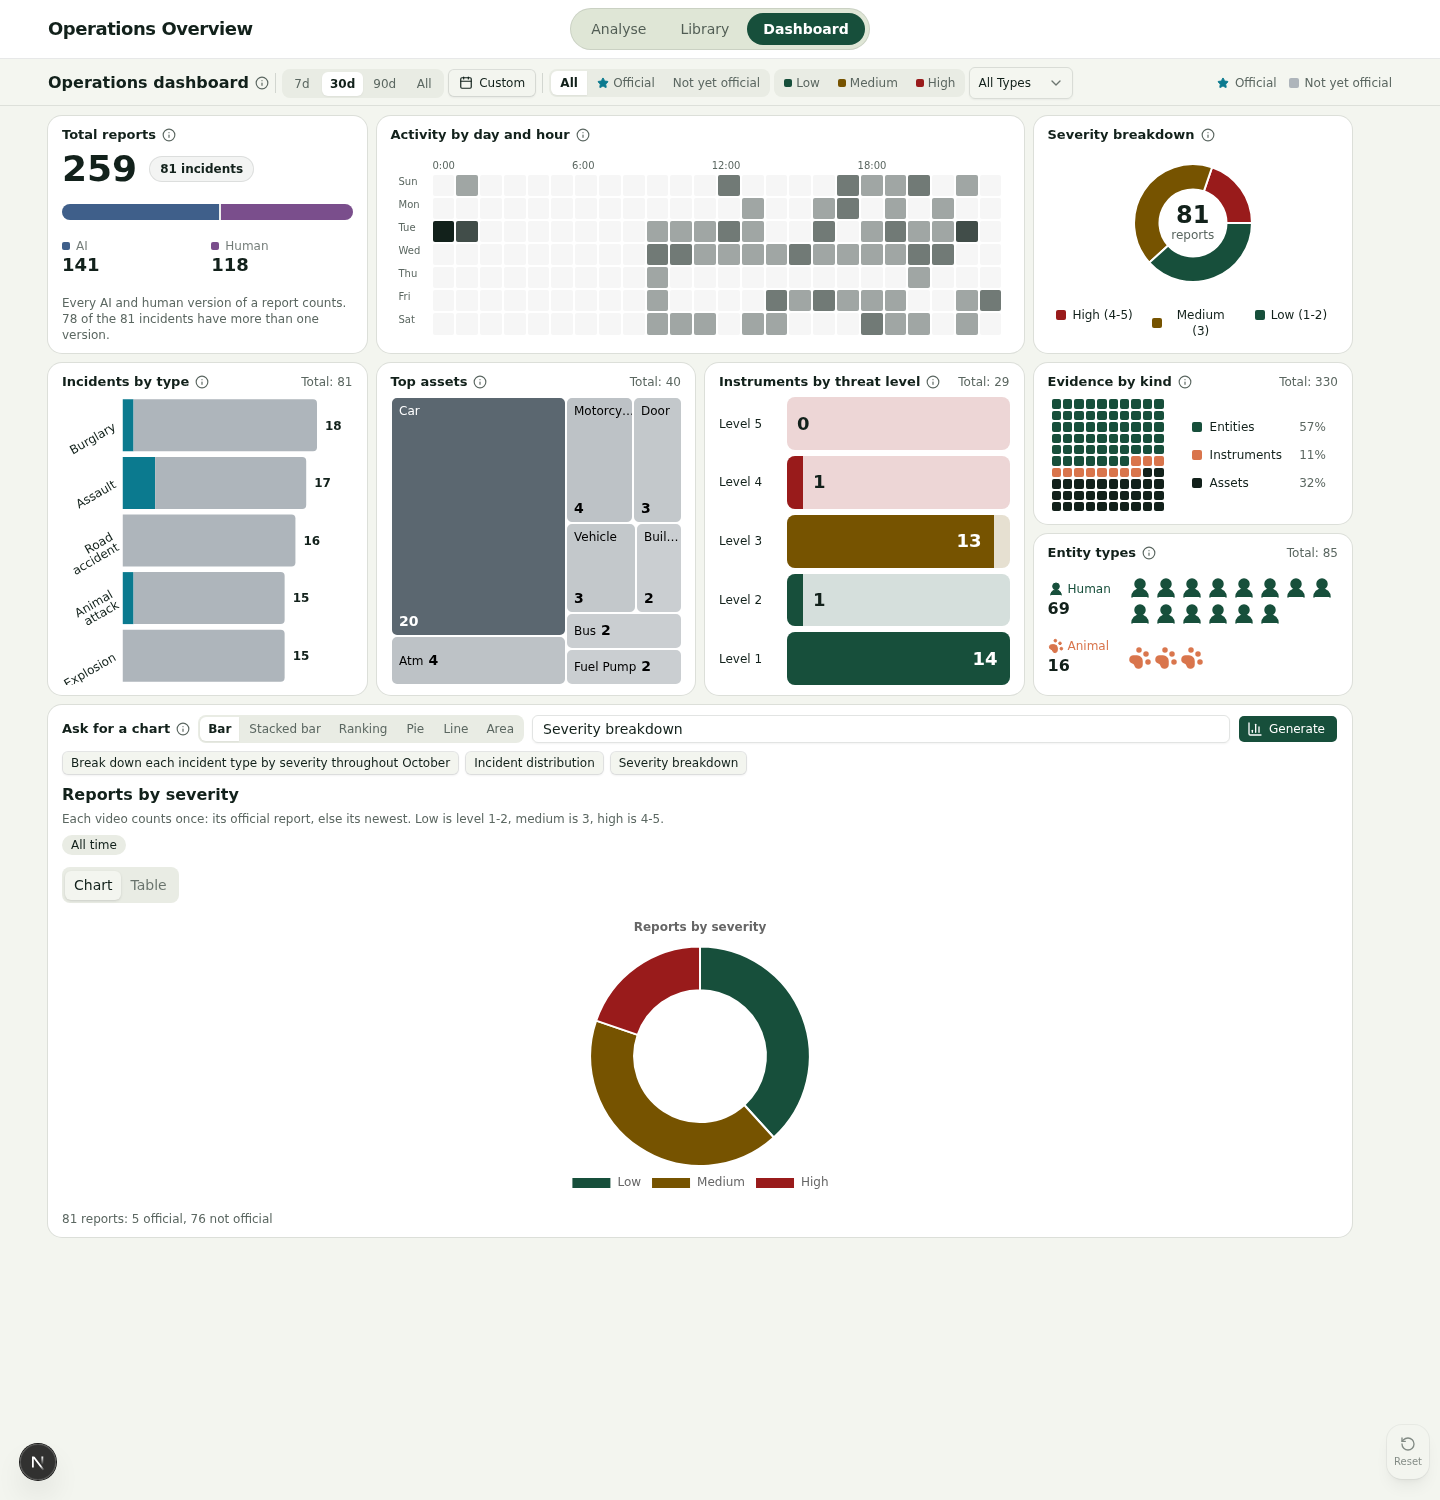
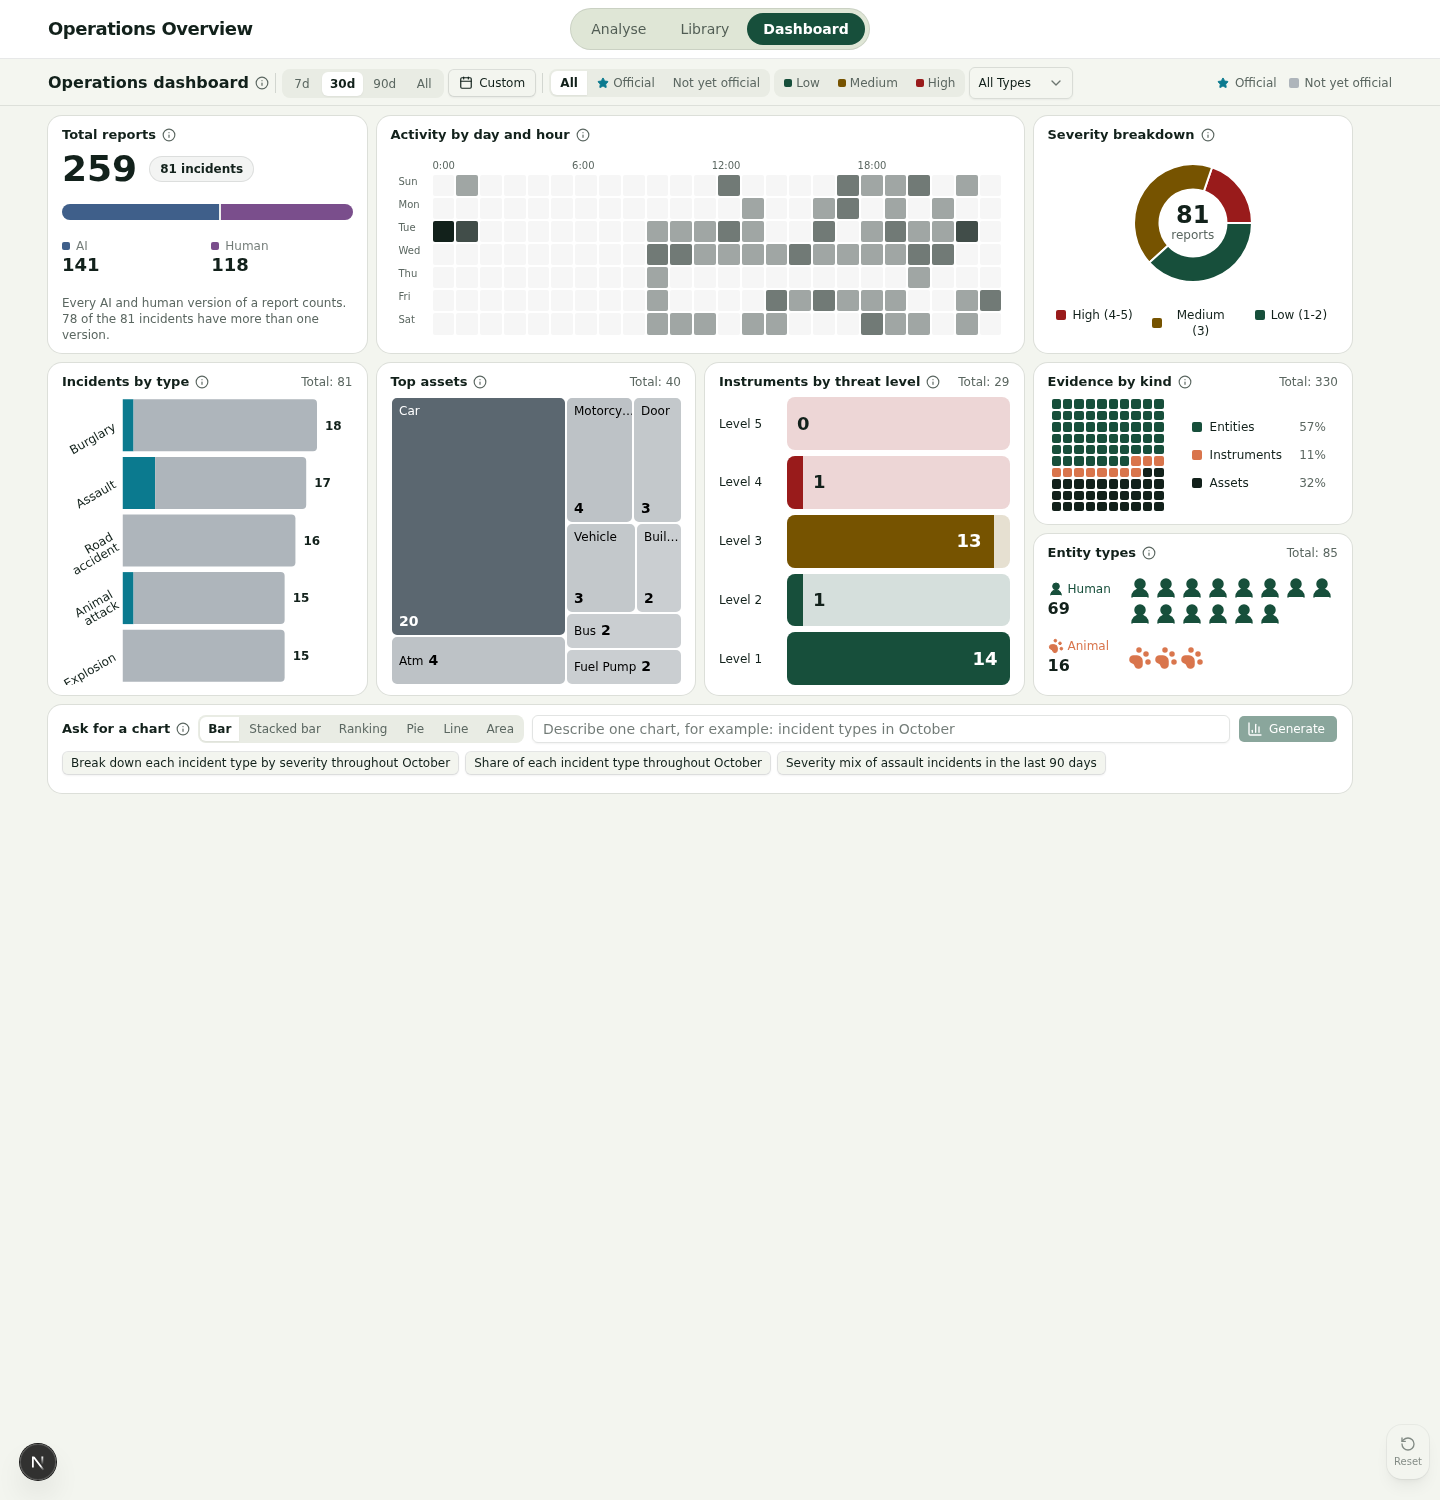
feat(incident): chips 2 and 3 are specific prompts that draw donuts
Chip 2 is 'Share of each incident type throughout October' and chip 3 is 'Severity mix of assault incidents in the last 90 days', both drawn as donuts. Seven candidates were run through the chart route and screenshotted at 1440 px (see the screenshot folder's README). Chip 1 is unchanged and the picker still follows a donut chip.

diff --git a/deploy/docker/developer-profiles/dev-profile-incident/incident-console-v2/src/sections/dashboard/components/ChartRequest/chart-examples.ts b/deploy/docker/developer-profiles/dev-profile-incident/incident-console-v2/src/sections/dashboard/components/ChartRequest/chart-examples.ts
@@ -17,8 +17,8 @@ export interface ChartExample {
 export const CHART_EXAMPLES: readonly ChartExample[] = [
   // A chart view: stacked bars by severity, one per incident type, for October.
   { request: 'Break down each incident type by severity throughout October', kind: 'stacked_bar', setsPicker: false },
-  // Incident types as a whole: a donut.
-  { request: 'Incident distribution', kind: 'donut', setsPicker: true },
-  // Severity bands as a whole: a donut.
-  { request: 'Severity breakdown', kind: 'donut', setsPicker: true },
+  // The share of each incident type in October: a donut.
+  { request: 'Share of each incident type throughout October', kind: 'donut', setsPicker: true },
+  // The severity mix of one incident type over 90 days: a donut.
+  { request: 'Severity mix of assault incidents in the last 90 days', kind: 'donut', setsPicker: true },
 ];

diff --git a/deploy/docker/developer-profiles/dev-profile-incident/.docs/console-reference.md b/deploy/docker/developer-profiles/dev-profile-incident/.docs/console-reference.md
@@ -97,7 +97,7 @@ time constraints. The API forwards inclusive day boundaries, optional time-of-da
 - The period window is computed in the browser after mount and sent as zoneless UTC; the API reads it as UTC.
 - The period is a preset (7, 30 or 90 days, all time) or **Custom**: a calendar range (shadcn `Calendar` in a `Popover`, range mode; days after today are disabled; Apply commits, Cancel keeps the period). Opening Custom again while a range is applied shows that range. The browser sends the range as zoneless UTC from local midnight of the first day to local midnight after the last (`customWindow` in `domain/charts.ts`), with `days=custom`; `GET /api/dashboard` requires both `after` and `before` for `custom`. Every display and every Library drill-down link uses the same window, so the totals match.
 - **Filter bar:** the page has no comparison with the previous period (the RPC still returns `previous` for a bounded period, and the console does not read it). Ask for a chart is the card at the foot of the page (`id="ask-for-a-chart"`, request box `id="chart-request-text"`, ids in `src/sections/dashboard/chart-request-jump.ts`); the bar has no button for it.
-- **Example chips:** the panel shows three, from `ChartRequest/chart-examples.ts`: "Break down each incident type by severity throughout October" (severity within each type, a stacked bar by severity), "Incident distribution" (a donut of incident types) and "Severity breakdown" (a donut of severity bands). Each chip sends its own kind; a donut chip also sets the chart-type picker to Pie, while the October view leaves the picker alone because a view ignores it. The picker still applies to a typed request. Tests: `tests/chart-examples.test.mjs`. [decision](decisions.md#2026-11-09-ask-for-a-chart-shows-three-example-chips-each-with-its-own-kind).
+- **Example chips:** the panel shows three, from `ChartRequest/chart-examples.ts`: "Break down each incident type by severity throughout October" (severity within each type, a stacked bar by severity), "Share of each incident type throughout October" (a donut of the October incident types) and "Severity mix of assault incidents in the last 90 days" (a donut of the severity bands for one type over 90 days). Each chip sends its own kind; a donut chip also sets the chart-type picker to Pie, while the October view leaves the picker alone because a view ignores it. The picker still applies to a typed request. Tests: `tests/chart-examples.test.mjs`. [decision](decisions.md#2026-11-09-ask-for-a-chart-shows-three-example-chips-each-with-its-own-kind).
 - **Ask for a chart:** `POST /api/dashboard/chart {request, chartType, timezone}` takes one request and the user's chart kind (Bar, Stacked bar, Ranking, Pie, Line or Area; sent as bar, stacked bar, horizontal bar, donut, line or area; `pie` is read as donut), and answers `{kind: 'chart', chart}`, `{kind: 'unsupported'}`, `{kind: 'needs_bar'}` or `{kind: 'not_available'}` (a chart view whose figures the dashboard does not return yet). The model only picks a strict `ChartSpec` from the allowlist in `modules/dashboard/domain/chart-spec.ts`. Its `period` is a preset or a calendar period: `{month}` (`YYYY-MM`), `{day}` (`YYYY-MM-DD`) or `{from, to}`, which must be real dates, not after today in the viewer's time zone, not reversed and at most 366 days (`domain/chart-period.ts`; a month still running counts up to today). The console sends the model today's date and the viewer's zone in the user message, so "October" resolves to the most recent one not in the future. `generateChart` counts a calendar period from local midnight of its first day to local midnight after its last, titles the chart with the range in words (for example "Reports per day, 1 to 15 October 2026") and passes the same range to `getDashboard`; `generateChart` runs `getDashboard` (plus one query per report status for report charts), builds the rows, title and labels itself, and sends the figures and the palette colours to VSS `chart_generator` on the agent through the `ChartRenderer` port. The agent returns a Chart.js configuration with those figures in it; the console checks every label and figure against its rows (`domain/chart-config.ts`) and answers a 502 on a mismatch, so no altered figure is shown. The browser draws the configuration with `chart.js` and `react-chartjs-2` (`ChartJsView`, loaded only when a chart comes back); the Table tab gives every row and the chart's accessible label names its title, scope and totals. With no configuration back (a `200` with `chart_config: null`, or the agent answers `422`, `404` or `501` for the Chart.js item, as an agent without Chart.js output does), the PNG is drawn instead (a donut as a pie, the rest as bars); any other failure is a 502. A kind that does not suit the dimension answers `needs_bar`: a stacked bar needs the official split, a donut needs a whole, a line or area needs a day, week or month trend, and a bar always suits (`domain/chart-kinds.ts`). Colours are in `src/lib/ui/chart-colors.ts`; no records means nothing is drawn. Before the model reads the request, `generateChart` normalises canonical severity words to their dashboard band in code (`domain/severity-words.ts`, `chart-severity-words-v2`: a word maps only when all the severity levels the project definitions tie it to share one band: minimal, very low and minor→low, moderate→medium, severe and critical→high; only where the word qualifies severity or an incident noun; serious, significant and other words stay as typed; [decision](decisions.md#2026-11-03-dashboard-chart-requests-normalise-canonical-severity-words-in-code)). The console posts its prompt and the (normalised) request to the agent's `POST /api/v1/incidents/chart-requests`, where the agent's own LLM (`chart_generator.llm_name`) answers with the JSON object it wrote; the console validates that object as above. Invalid input is 400, a missing `INCIDENT_AGENT_BASE_URL` 503, and a failed model or drawing call a plain 502 ([decision](decisions.md#2026-11-02-dashboard-chart-requests-are-read-by-the-vss-agents-own-llm-not-the-local-vlm-gateway), amending [2026-10-31](decisions.md#2026-10-31-dashboard-chart-requests-a-model-picks-an-allowlisted-spec-our-code-fetches-the-figures-and-vss-chart_generator-draws-them); calendar periods: [decision](decisions.md#2026-11-06-dashboard-chart-requests-take-calendar-periods-a-month-a-day-or-a-range-read-against-today-in-the-viewers-time-zone)).
 - **Chart views:** four requests draw a view in its own kind, whatever the picker says (the picker's kind is not refused for them; the chart says "Drawn as ..." under its title). `incident_type_evidence` (metric `evidence_per_report`) is a **dual-axis combo**: reports per incident type as bars on the left axis, evidence items per report as a line on the right axis, both titled. `incident_type_severity` (metric `incidents`) is a **stacked bar by severity**: one bar per type split into high, medium and low (low at the bottom, high on top; the legend reads high, medium, low), in the severity badge colours. `severity_evidence` (metric `evidence_items`) is a **bubble chart**: one bubble per severity level (1 to 5) and evidence item count, its size the number of reports with that pair, coloured by its severity band; hovering a bubble shows its label and report count ("Severity 3, 2 evidence items: 5 reports"), never the radius. Evidence per report is items over reports, rounded to two decimals in code; a type with no reports has no figure and is left out. The figures come from `generateChart` only: `types[].evidence` and `types[].severity` for the first two, `severityEvidence` (counted reports by severity level and item count) for the bubble. Every view is checked against its rows before it is shown, as the other configurations are (a bubble's `x` and `y`; its radius is a size and is not checked). - `threat_by_holder` (metric `instruments`) is a **stacked bar by holder type**, drawn in the stacked kind (`stacked_by_severity`, so the agent needs no change): one bar per holder type of the counted reports' instruments (Human, Animal, Unknown, and No holder only when some instrument has none), split into high, medium and low threat (`THREAT_SERIES`, in the severity band colours; low 1-2, medium 3, high 4-5). The figures are `threatByHolder` (one row per holder type with `high`, `medium`, `low`, `official` and `notOfficial`), from `20261107120000_dashboard_threat_by_holder.sql`, so the holder view answers `not_available` until that migration, and `20261107110000` before it, is applied. A request about the severity of reports ("high severity") stays the severity filter; a request about an instrument's threat level is this view.
 

diff --git a/deploy/docker/developer-profiles/dev-profile-incident/.docs/decisions.md b/deploy/docker/developer-profiles/dev-profile-incident/.docs/decisions.md
@@ -4,9 +4,10 @@ Decisions that still shape `dev-profile-incident`, newest first. Each entry: dec
 
 ### 2026-11-09: Ask for a chart shows three example chips, each sending its own chart kind
 
-- **Decision:** the panel offers exactly three example chips, in `chart-examples.ts`: "Break down each incident type by severity throughout October" (a stacked bar by severity per incident type, the captain's chip), "Incident distribution" (a donut) and "Severity breakdown" (a donut). Each chip submits with the kind it reads best in; a donut chip also sets the picker to Pie, so the picker shows what is drawn (the October view leaves the picker alone, since a view ignores it). The bar and line examples, and the bubble chart, are gone from the chips; the picker's options and typed requests are unchanged.
+- **Decision:** the panel offers exactly three example chips, in `chart-examples.ts`: "Break down each incident type by severity throughout October" (a stacked bar by severity per incident type, the captain's chip), "Share of each incident type throughout October" (a donut) and "Severity mix of assault incidents in the last 90 days" (a donut). The captain asked for specific full-sentence prompts after the first version ("Incident distribution" and "Severity breakdown") and the first two candidates were chosen from seven tried, with screenshots in the same folder. Each chip submits with the kind it reads best in; a donut chip also sets the picker to Pie, so the picker shows what is drawn (the October view leaves the picker alone, since a view ignores it). The bar and line examples, and the bubble chart, are gone from the chips; the picker's options and typed requests are unchanged.
 - **Why:** the captain found the example list cluttered and the plain bar and line charts ugly. A donut suits a whole, and both donut dimensions (incident type, severity) are pie-capable in `chart-spec.ts`.
 - **Alternatives rejected:**
+  - *Short labels such as "Incident distribution":* the captain wants specific prompts that read like the first chip.
   - *Keep the picker's kind for chips:* a chip would draw a bar unless the reviewer changed the picker first, which is the ugly default.
   - *Donut for "Official vs not yet" or "Reports by version":* two slices, which reads poorly.
   - *Keep the bubble chip:* the captain found the bubble chart ugly.

diff --git a/deploy/docker/developer-profiles/dev-profile-incident/.docs/screenshots/2026-11-09-chart-three-prompts/README.md b/deploy/docker/developer-profiles/dev-profile-incident/.docs/screenshots/2026-11-09-chart-three-prompts/README.md
@@ -1,0 +1,18 @@
+# Ask for a chart: three example chips (2026-11-09)
+
+Desktop 1440 px captures of the dashboard's "Ask for a chart" panel, taken on the local console (port 3210) against the live agent and database, read-only.
+
+Final chips (`chips-row-1440.png` shows them): chip 1 is unchanged; chips 2 and 3 are the chosen candidates 1 and 2.
+
+| File | Prompt | Drawn as | Verdict |
+|---|---|---|---|
+| `chip-1-october-severity-stacked-1440.png` | Break down each incident type by severity throughout October | Stacked bar by severity (view) | Chip 1, kept |
+| `chip-2-share-incident-types-october-1440.png` | Share of each incident type throughout October | Donut | Chip 2 |
+| `chip-3-severity-mix-assault-90d-1440.png` | Severity mix of assault incidents in the last 90 days | Donut | Chip 3 |
+| `candidate-01-share-incident-types-october-1440.png` | Share of each incident type throughout October | Donut, 5 slices | Best, chosen |
+| `candidate-02-severity-mix-assault-90d-1440.png` | Severity mix of assault incidents in the last 90 days | Donut, 3 slices | Good, chosen |
+| `candidate-03-ai-or-human-reviewers-october-1440.png` | Who wrote the reports in October: AI or human reviewers | Donut, 2 slices (2 vs 62) | Lopsided, not chosen |
+| `candidate-04-official-status-30d-1440.png` | Official and not official reports in the last 30 days | Donut, 2 slices (5 vs 76) | Lopsided, repeats the totals card |
+| `candidate-05-analysis-outcomes-all-runs-1440.png` | Share of analysis outcomes across all runs | Donut, 5 slices | Pipeline data, one slice dominates, "Earlier" label |
+| `candidate-06-road-accident-severity-october-1440.png` | Severity mix of road accidents throughout October | Stacked bar by severity (view), one bar | One bar, not a chart worth a chip |
+| `candidate-07-official-share-october-1440.png` | Share of October reports that are official | Donut, 2 slices (0 vs 64) | Empty slice, not chosen |
